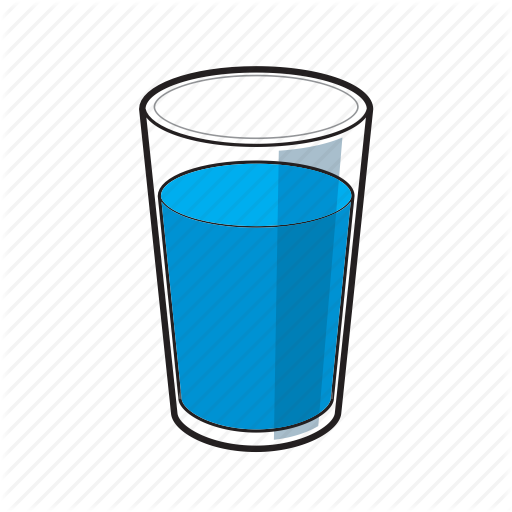
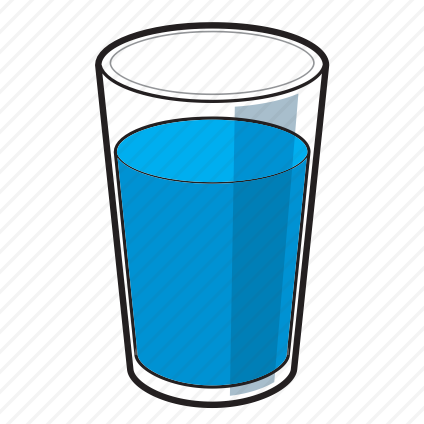
Full support for taskbar

Changed region(s): [[0.2146, 0.0307, 0.7972, 0.9811]]

diff --git a/src/drink.go b/src/drink.go
@@ -42,7 +42,7 @@ func main() {
 	configDirPath := filepath.Join(configPath, "water-reminder")
 	configFilePath := filepath.Join(configDirPath, "config.txt")
 	configIconPath := filepath.Join(configDirPath, "water-glass.png")
-	configIconPathBW := filepath.Join(configDirPath, "water-glass-bw.png")
+	configTrayIconPath := filepath.Join(configDirPath, "water-glass-tray.png")
 
 	if !findConfig(configPath) {
 		//Create config directory
@@ -51,7 +51,7 @@ func main() {
 		//Download icon and default config file in the new directory
 		downloadFile("https://raw.githubusercontent.com/0xfederama/water-reminder/master/resources/config.txt", configFilePath)
 		downloadFile("https://raw.githubusercontent.com/0xfederama/water-reminder/master/resources/water-glass.png", configIconPath)
-		downloadFile("https://raw.githubusercontent.com/0xfederama/water-reminder/master/resources/water-glass-bw.png", configIconPathBW)
+		downloadFile("https://raw.githubusercontent.com/0xfederama/water-reminder/master/resources/water-glass-tray.png", configIconPath)
 	}
 
 	menuItems := []trayhost.MenuItem{
@@ -87,7 +87,7 @@ func main() {
 	}
 
 	// Load tray icon.
-	iconData, _ := ioutil.ReadFile(configIconPathBW)
+	iconData, _ := ioutil.ReadFile(configTrayIconPath)
 
 	trayhost.Initialize("Water Reminder", iconData, menuItems)
 
